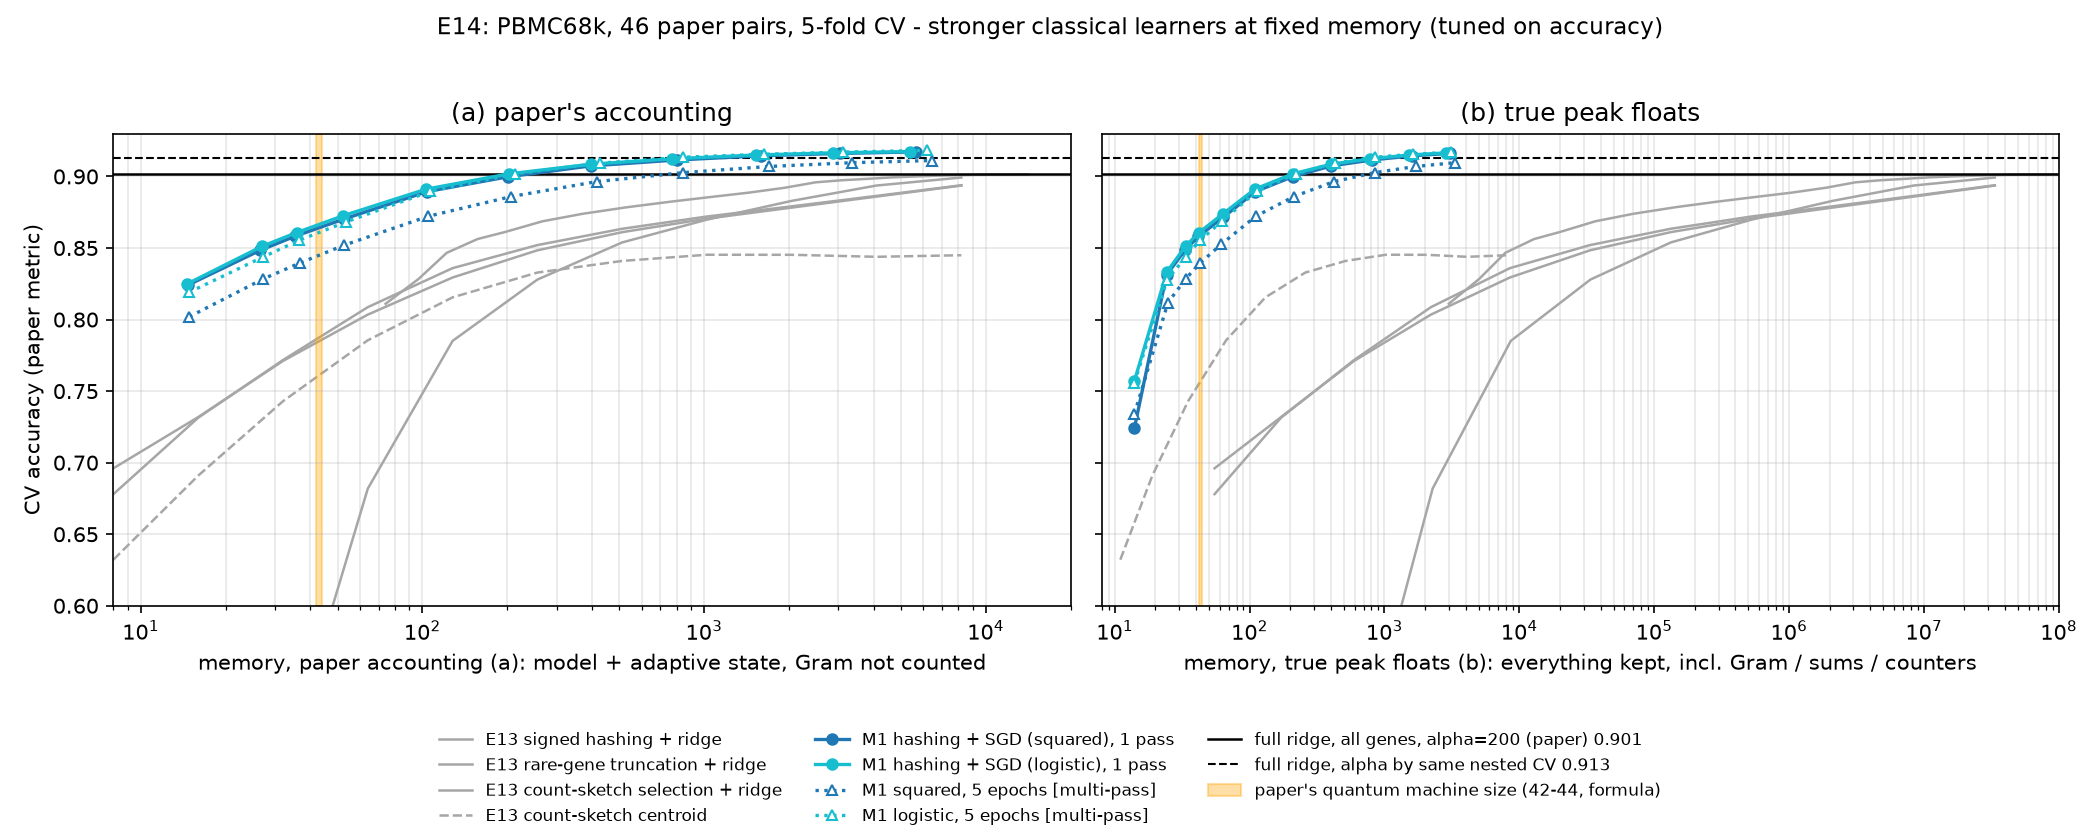
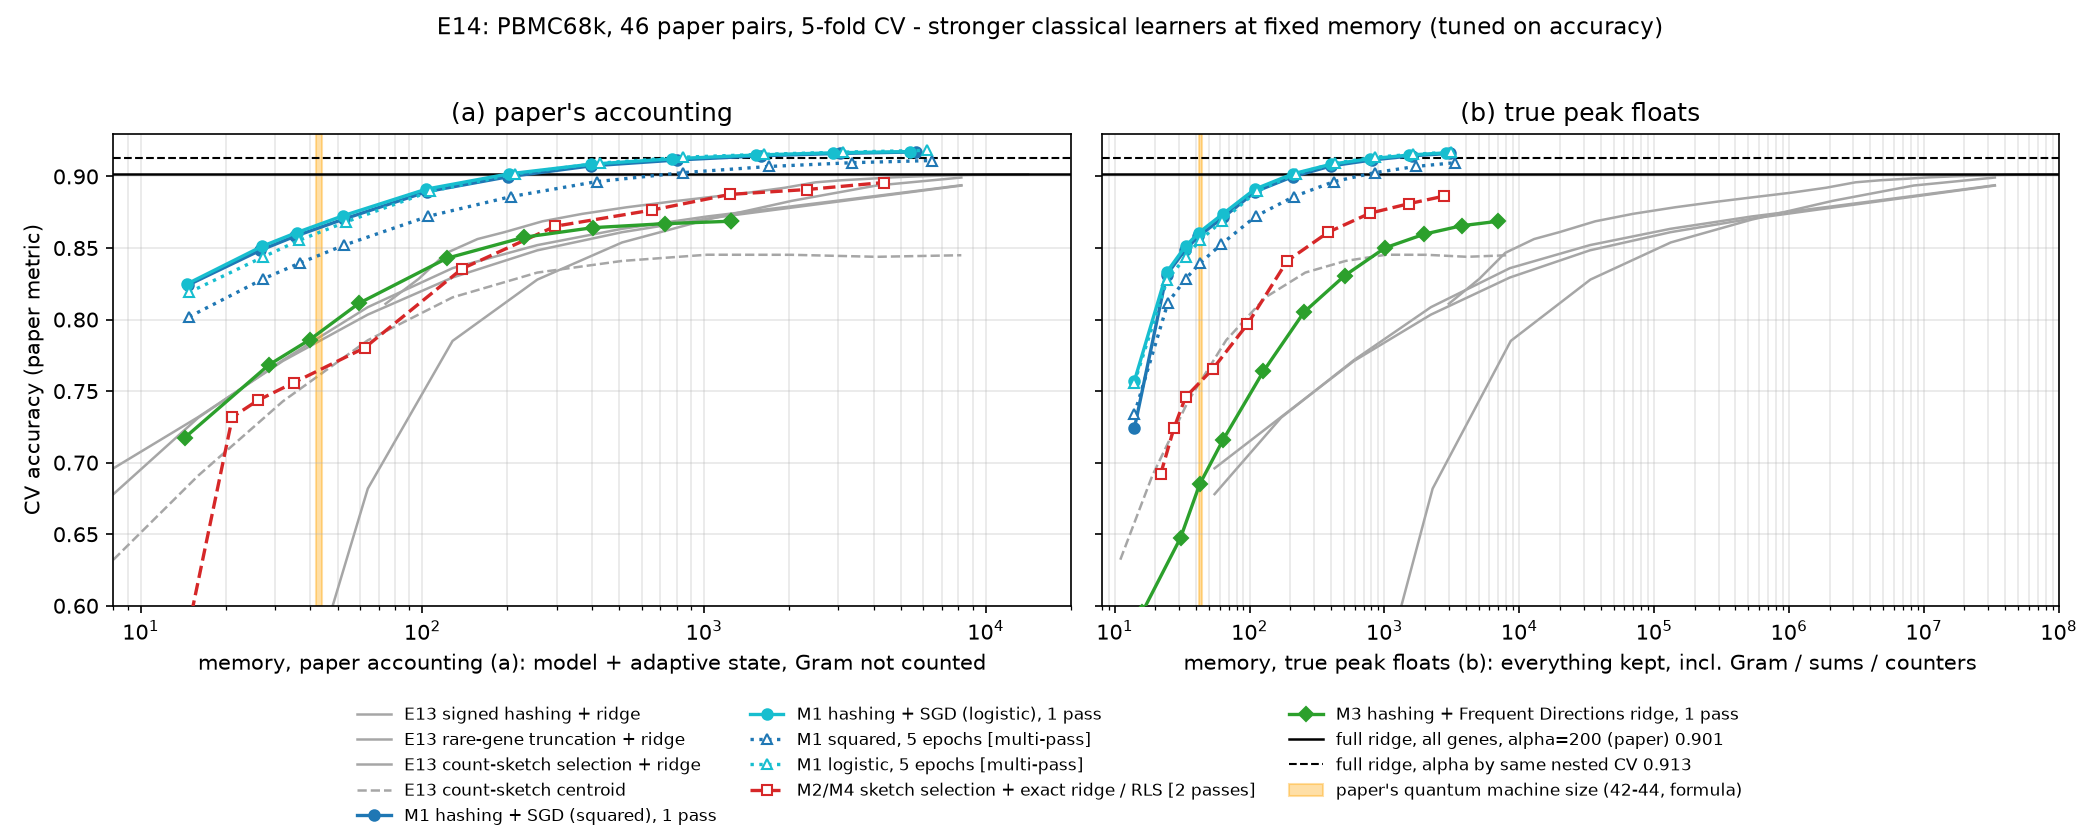
E14 stage 1+2: M2 sketch selection + ridge, M3 Frequent Directions ridge, figures

diff --git a/qos_cells/HPC_E14/PROGRESS.md b/qos_cells/HPC_E14/PROGRESS.md
@@ -27,3 +27,15 @@ Start 22:42 UTC (2026-11-05). Hard stop 04:42. Node: 8x RTX A6000, 128 cores, id
 - 23:31 FD: rows centred in-stream by Welford (exact centred scatter); robust-FD shrinkage correction tuned on/off.
 - 23:35 M4 (RLS) = exact ridge on the same genes: 12/12 cases identical predictions (results/e14_m4_rls_check.json).
 - m2 at ~17 min per 22k-cell pair per GPU; ETA ~00:05. m0 sharing GPUs. m3 next.
+- 00:40 m2 done (88.9 min; slowed by GPU sharing). m3 done (46 pairs, all before 00:40). m0 paused 23:52-00:40 to
+  prioritise m2, now resumed.
+- Stage 1+2 snapshot (accuracy, nested-CV tuned on accuracy; S = 64):
+  | method | (a) paper | (b) true floats |
+  |---|---|---|
+  | M1 hashing + SGD logistic, 1 pass | 0.873 | 0.861 |
+  | M2 sketch selection + ridge, 2 pass | 0.756 | 0.746 |
+  | M3 hashing + FD ridge, 1 pass | 0.811 | 0.716 |
+  | E13 best data-oblivious (jl) | 0.809 | ~0.70 (S=8 hashed) |
+  | full ridge alpha=200 / alpha nested | 0.901 / 0.913 | |
+  M2 fails at small budgets because a count-sketch with C << D = 16,122 cannot rank genes (oracle exact top-k ridge:
+  0.872 at k = 44, 0.876 at k = 64, but needs D counters to find them).
